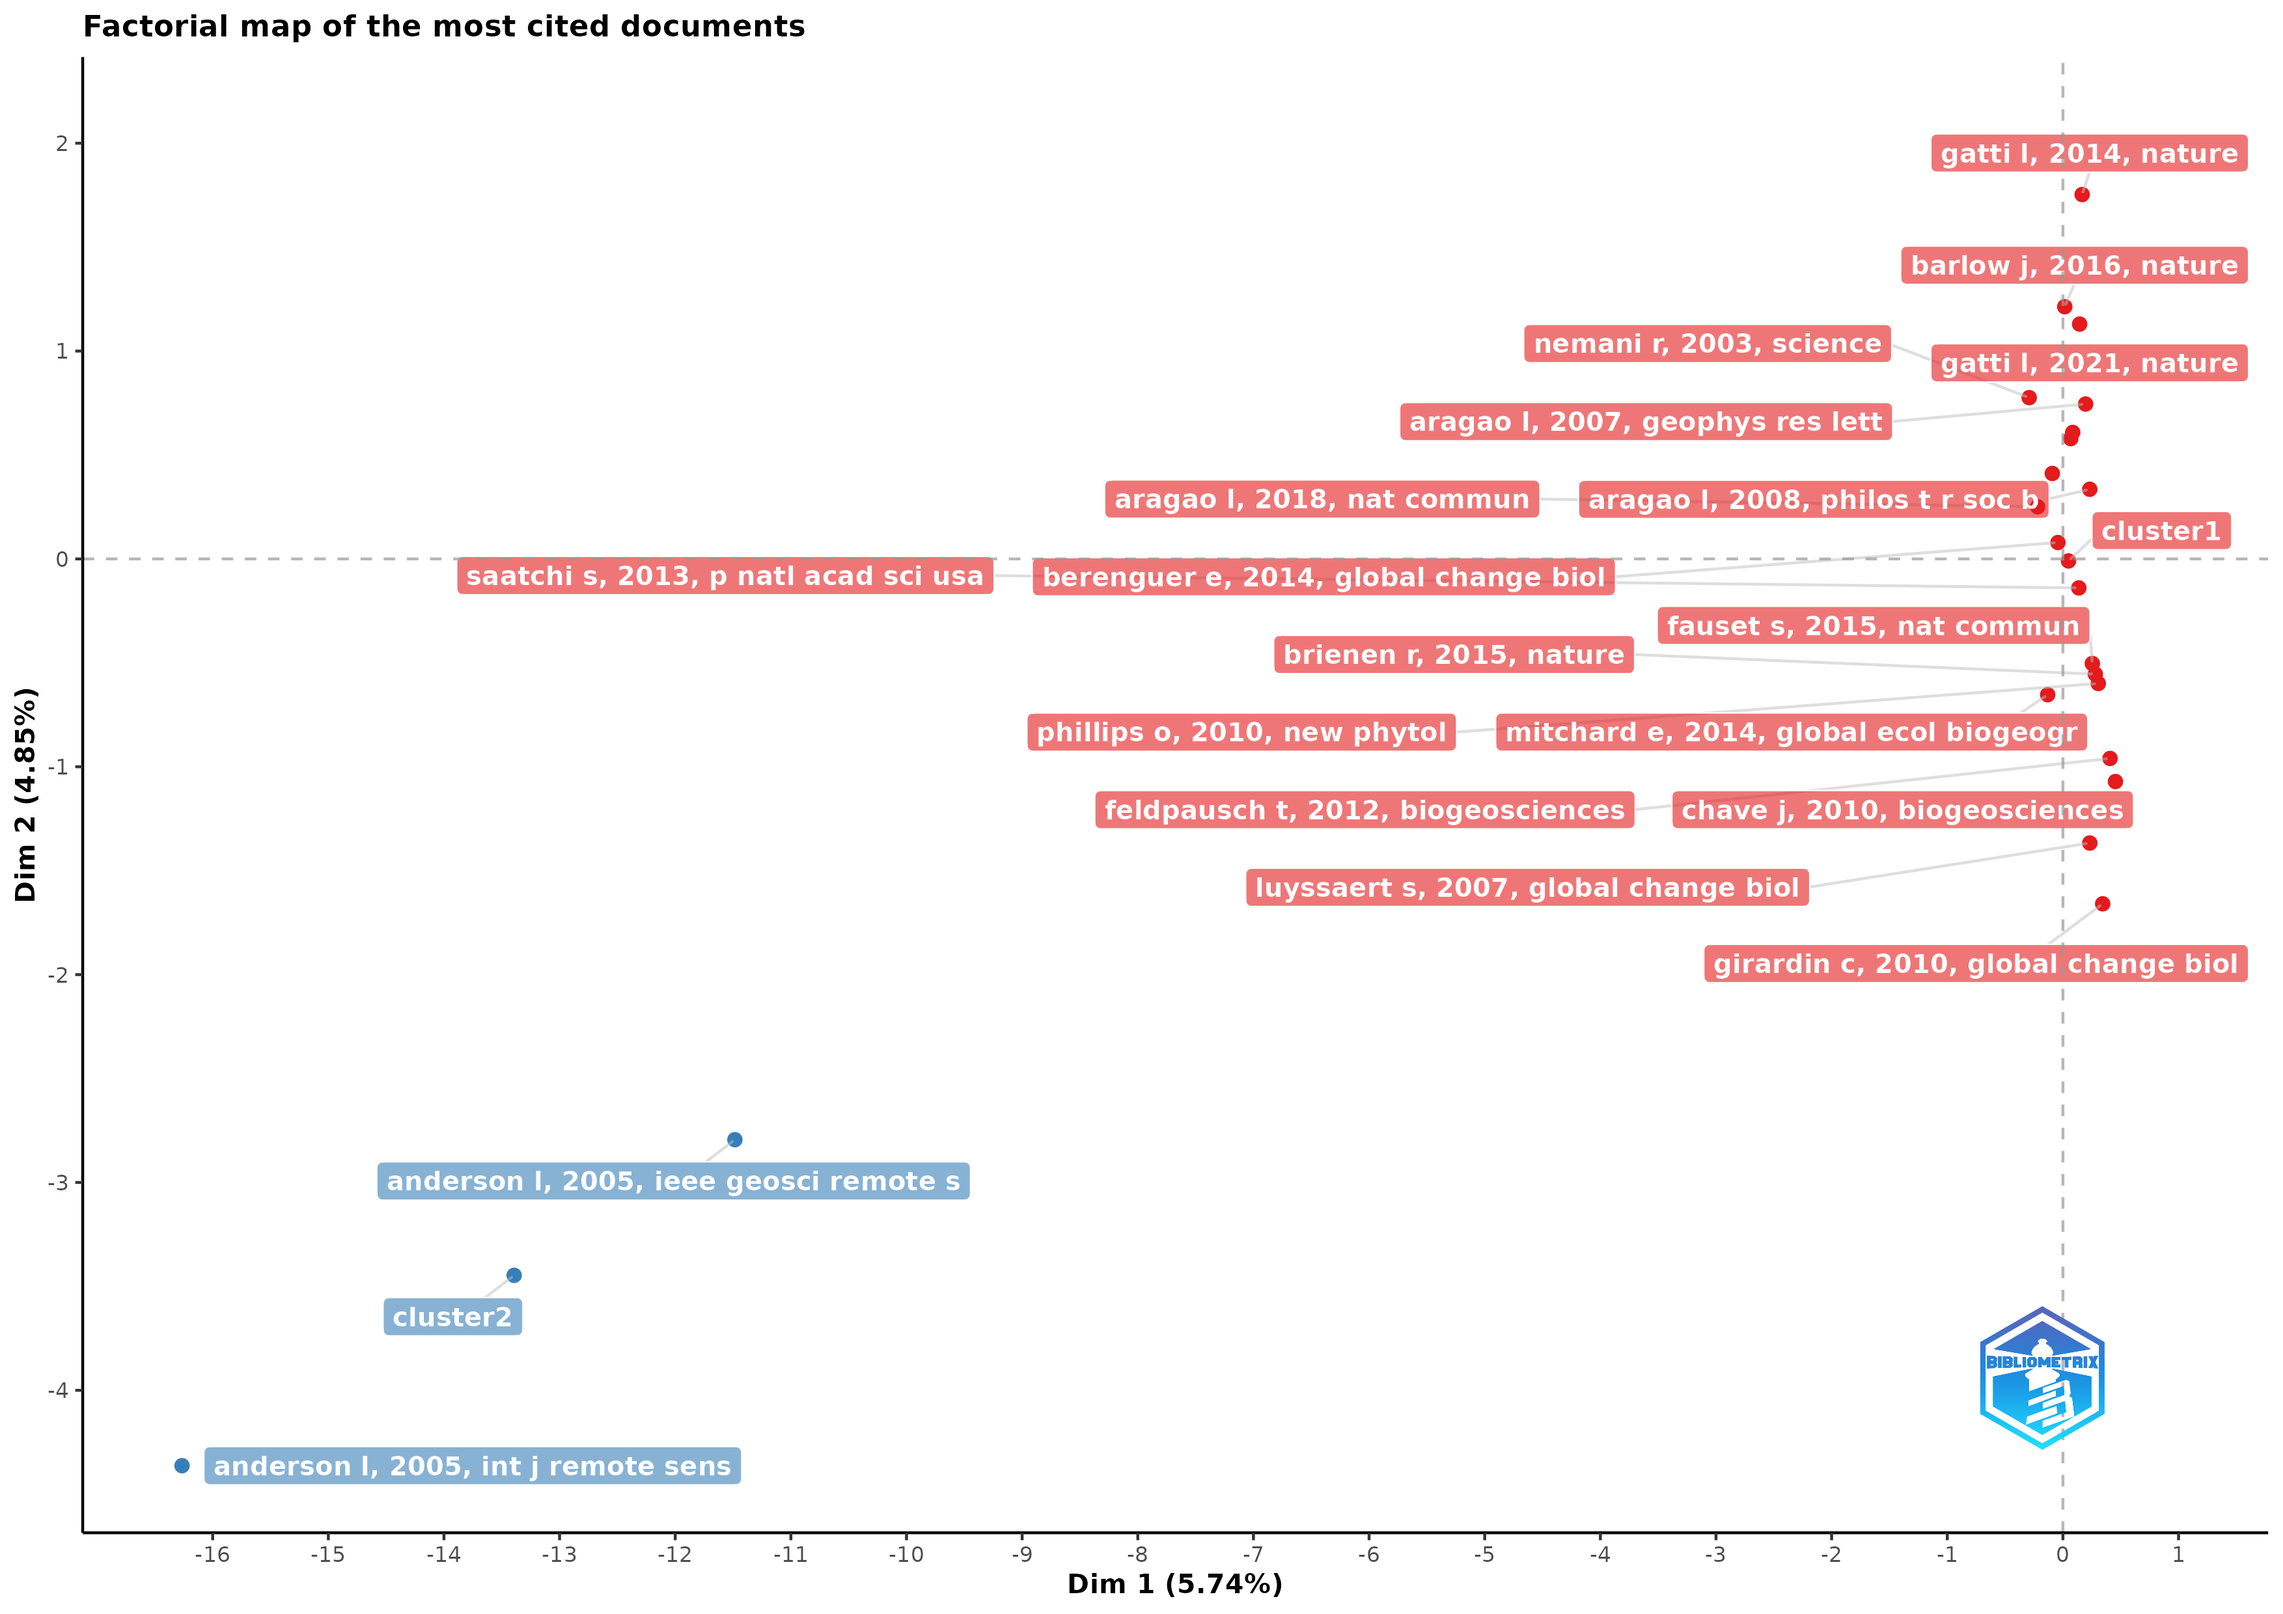
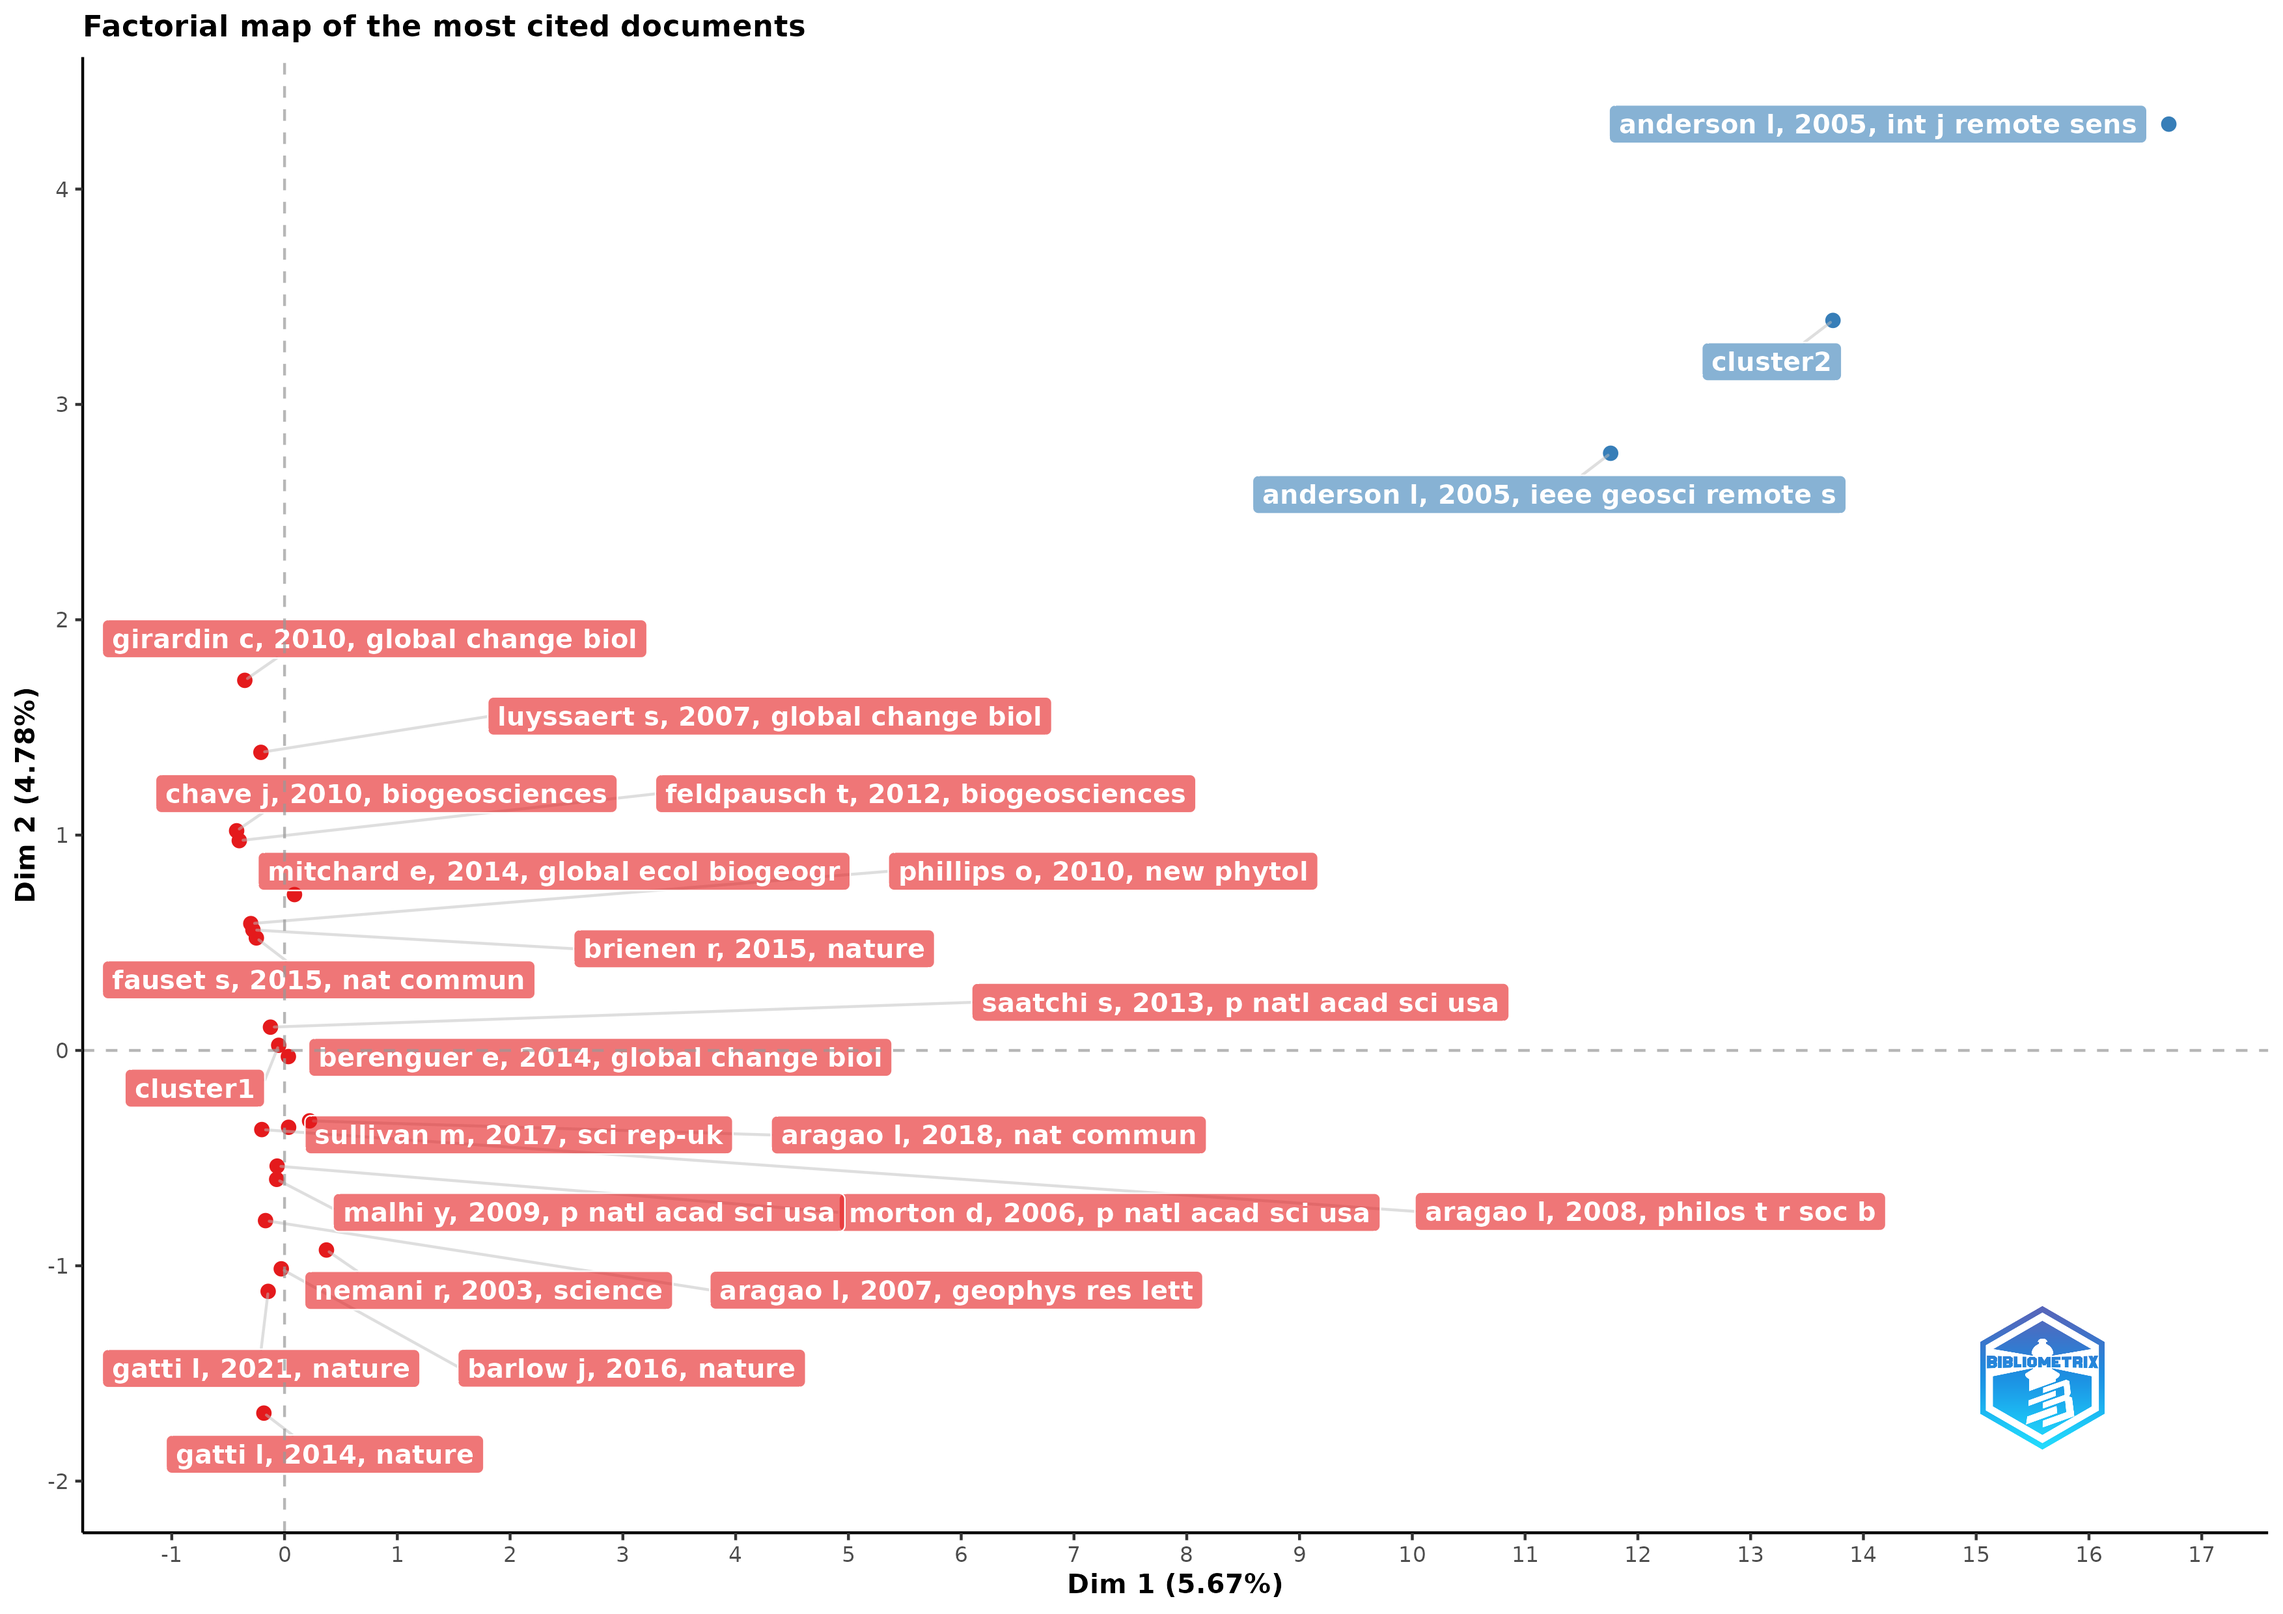
Publication list updated to 2024

Changed region(s): [[0.0311, 0.1552, 0.9946, 0.9315], [0.6838, 0.0621, 0.9946, 0.1242], [0.5284, 0.9625, 0.5595, 0.9935]]

diff --git a/treeslab_bibliometry/tables/summary_main_information.tex b/treeslab_bibliometry/tables/summary_main_information.tex
@@ -3,19 +3,19 @@
 \toprule
 Description & Results\\
 \midrule
-Timespan & 2003:2023\\
+Timespan & 2003:2024\\
 Sources (Journals, Books, etc) & 84\\
-Documents & 210\\
-Annual Growth Rate \% & 15.55\\
-Document Average Age & 7.71\\
+Documents & 218\\
+Annual Growth Rate \% & 10.41\\
+Document Average Age & 7.43\\
 \addlinespace
-Average citations per doc & 85.76\\
+Average citations per doc & 82.65\\
 References & 1\\
-Author's Keywords (DE) & 560\\
-Authors & 1329\\
+Author's Keywords (DE) & 571\\
+Authors & 1371\\
 Authors of single-authored docs & 1\\
 \addlinespace
 Co-Authors per Doc & 15.6\\
-International co-authorships \% & 86.67\\
+International co-authorships \% & 86.24\\
 \bottomrule
 \end{tabular}

diff --git a/treeslab_bibliometry/tables/summary_most_rel_sources.tex b/treeslab_bibliometry/tables/summary_most_rel_sources.tex
@@ -3,18 +3,20 @@
 \toprule
 Sources & Articles\\
 \midrule
-GLOBAL CHANGE BIOLOGY & 15\\
-REMOTE SENSING & 13\\
+GLOBAL CHANGE BIOLOGY & 16\\
+REMOTE SENSING & 14\\
 SCIENCE & 9\\
 BIOGEOSCIENCES & 8\\
 PLANT ECOLOGY \& DIVERSITY & 8\\
 \addlinespace
+NATURE & 7\\
 NEW PHYTOLOGIST & 7\\
-NATURE & 6\\
+ENVIRONMENTAL RESEARCH LETTERS & 5\\
+FIRE-SWITZERLAND & 5\\
 INTERNATIONAL JOURNAL OF REMOTE SENSING & 5\\
+\addlinespace
 PHILOSOPHICAL TRANSACTIONS OF THE ROYAL SOCIETY B-BIOLOGI... & 5\\
 PLOS ONE & 5\\
-\addlinespace
 SCIENTIFIC REPORTS & 5\\
 \bottomrule
 \end{tabular}

diff --git a/treeslab_bibliometry/tables/summary_most_prod_authors.tex b/treeslab_bibliometry/tables/summary_most_prod_authors.tex
@@ -3,21 +3,16 @@
 \toprule
 Authors & Articles\\
 \midrule
-ARAGAO L & 140\\
-ANDERSON L & 92\\
+ARAGAO L & 144\\
+ANDERSON L & 97\\
 MALHI Y & 59\\
-SHIMABUKURO Y & 41\\
+SHIMABUKURO Y & 42\\
 PHILLIPS O & 31\\
 \addlinespace
 SILVA C & 31\\
+MATAVELI G & 22\\
 ARAI E & 21\\
 BAKER T & 20\\
-BARLOW J & 19\\
-DALAGNOL R & 18\\
-\addlinespace
-MARIMON B & 18\\
-MATAVELI G & 18\\
-METCALFE D & 18\\
-QUESADA C & 18\\
+DALAGNOL R & 20\\
 \bottomrule
 \end{tabular}

diff --git a/treeslab_bibliometry/tables/summary_most_prod_authors_frac.tex b/treeslab_bibliometry/tables/summary_most_prod_authors_frac.tex
@@ -3,16 +3,16 @@
 \toprule
 Authors & Articles Fractionalized\\
 \midrule
-ARAGAO L & 16.37\\
-ANDERSON L & 12.27\\
-SHIMABUKURO Y & 6.87\\
+ARAGAO L & 16.76\\
+ANDERSON L & 12.70\\
+SHIMABUKURO Y & 6.98\\
 MALHI Y & 4.92\\
-MATAVELI G & 2.97\\
+MATAVELI G & 3.48\\
 \addlinespace
 ARAI E & 2.79\\
 SILVA C & 2.70\\
-DE O G & 2.32\\
-DALAGNOL R & 1.96\\
+DE O G & 2.54\\
+DALAGNOL R & 2.04\\
 WAGNER F & 1.83\\
 \bottomrule
 \end{tabular}

diff --git a/treeslab_bibliometry/tables/summary_most_rel_keywords_kwplus.tex b/treeslab_bibliometry/tables/summary_most_rel_keywords_kwplus.tex
@@ -3,16 +3,16 @@
 \toprule
 Keywords-Plus (ID) & Articles\\
 \midrule
-DEFORESTATION & 49\\
-CLIMATE-CHANGE & 33\\
+DEFORESTATION & 51\\
+CLIMATE-CHANGE & 35\\
+RAIN-FOREST & 26\\
 CARBON & 25\\
-RAIN-FOREST & 25\\
 TROPICAL FORESTS & 25\\
 \addlinespace
-BIOMASS & 19\\
+FOREST & 21\\
+BIOMASS & 20\\
+LAND-USE & 20\\
+PATTERNS & 20\\
 DYNAMICS & 19\\
-FOREST & 19\\
-PATTERNS & 19\\
-LAND-USE & 18\\
 \bottomrule
 \end{tabular}

diff --git a/treeslab_bibliometry/tables/summary_most_rel_keywords.tex b/treeslab_bibliometry/tables/summary_most_rel_keywords.tex
@@ -3,9 +3,9 @@
 \toprule
 Author Keywords (DE) & Articles\\
 \midrule
-AMAZON & 29\\
+AMAZON & 31\\
+DEFORESTATION & 21\\
 REMOTE SENSING & 21\\
-DEFORESTATION & 19\\
 DROUGHT & 17\\
 FIRE & 13\\
 \addlinespace

diff --git a/treeslab_bibliometry/tables/summary_doc_type.tex b/treeslab_bibliometry/tables/summary_doc_type.tex
@@ -3,8 +3,8 @@
 \toprule
 Description & Results\\
 \midrule
-article & 175\\
-letter & 10\\
+article & 181\\
+letter & 12\\
 review & 9\\
 editorial material & 6\\
 article; proceedings paper & 2\\
